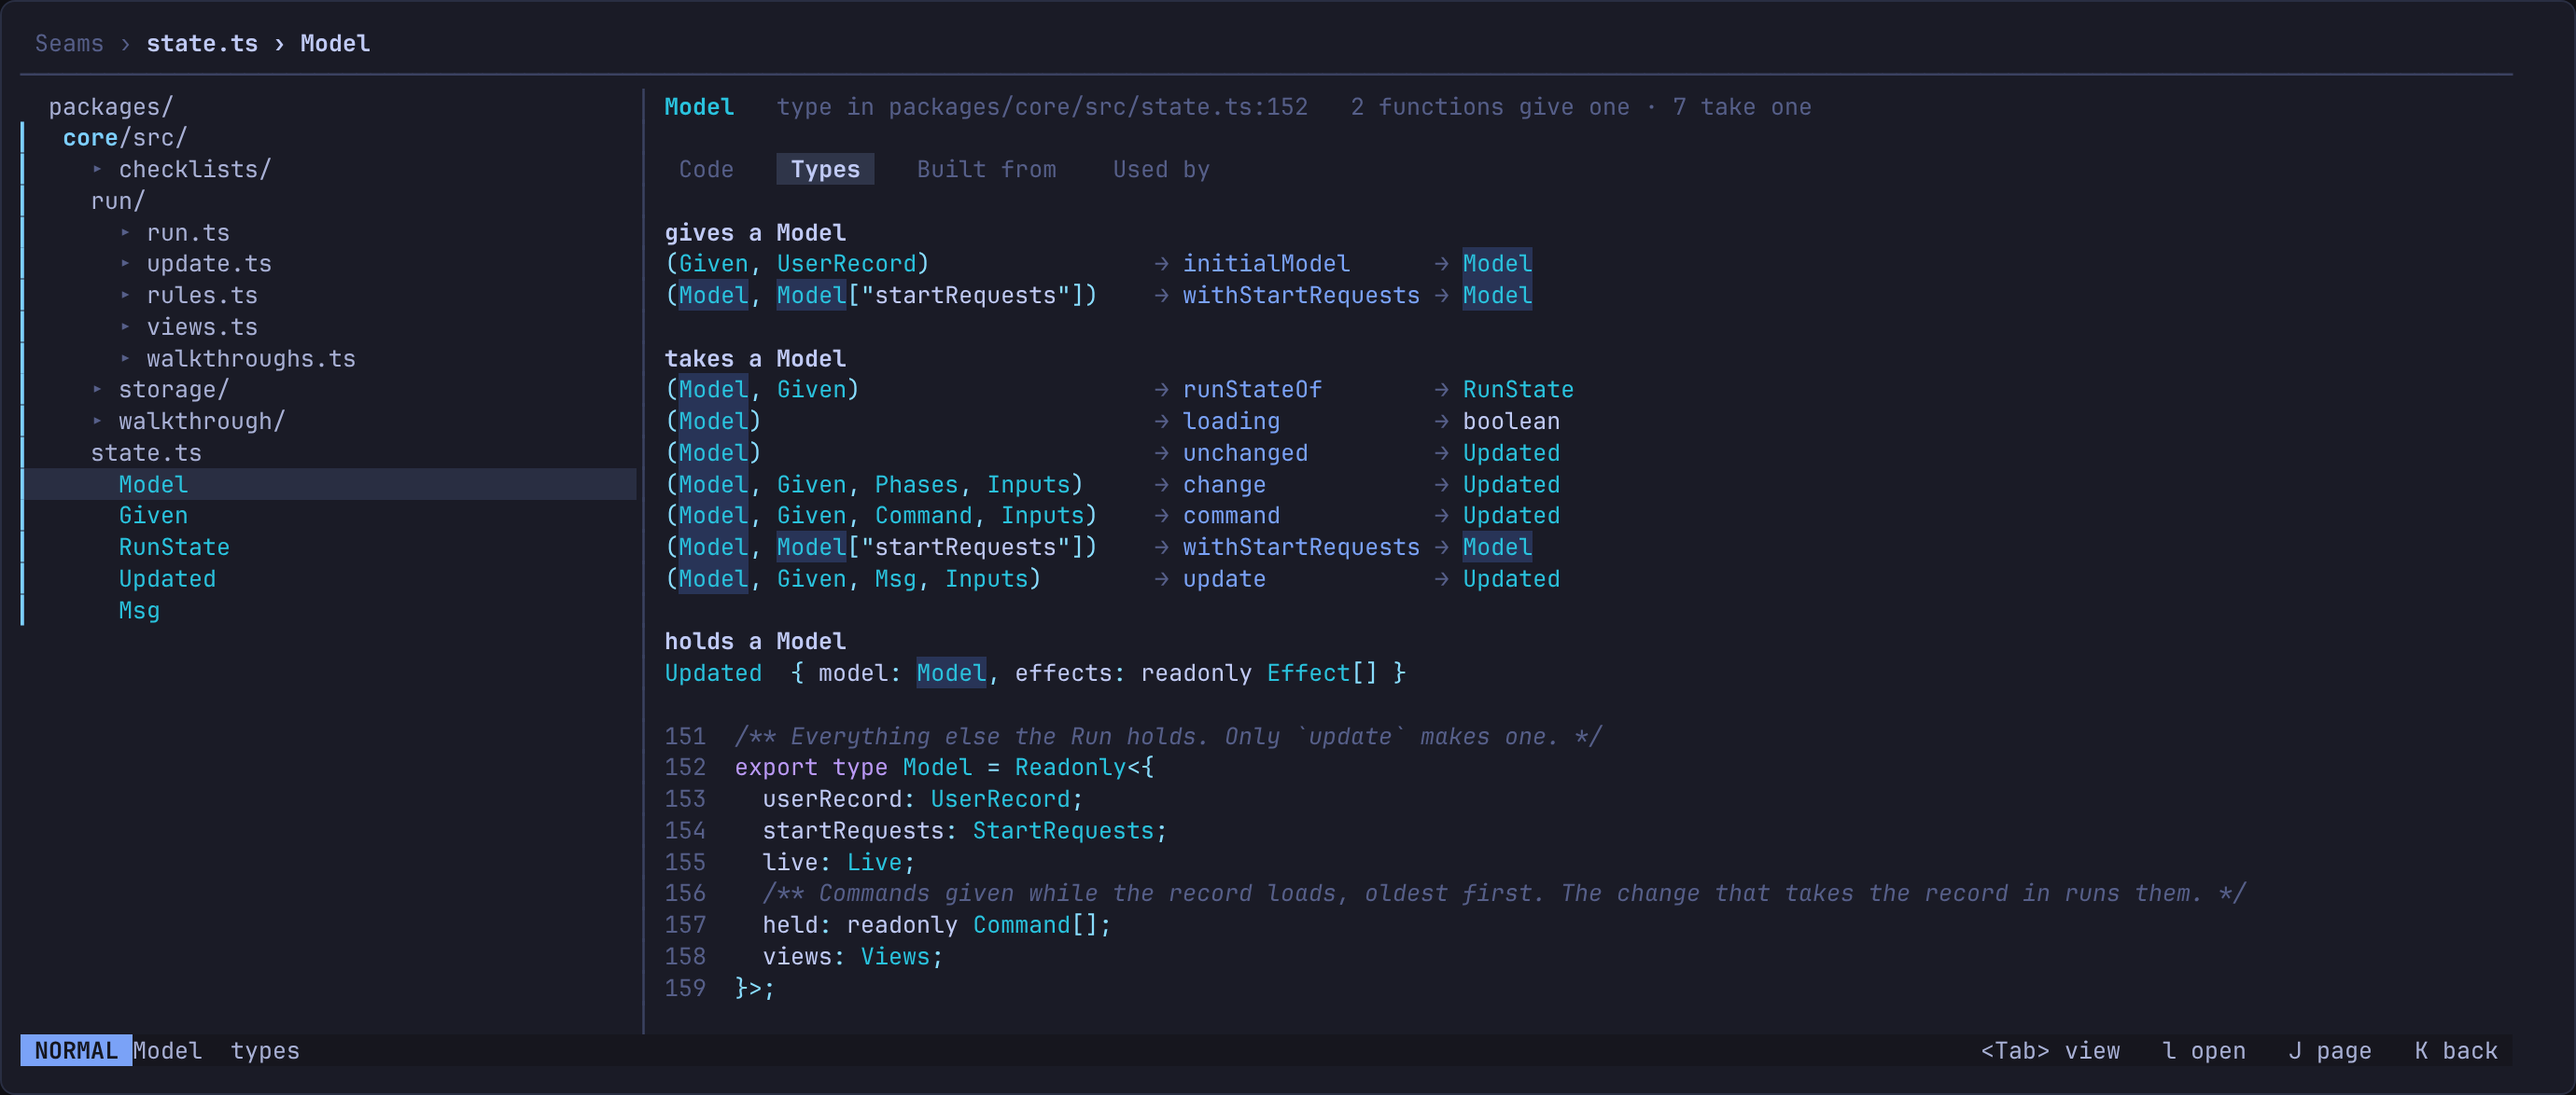
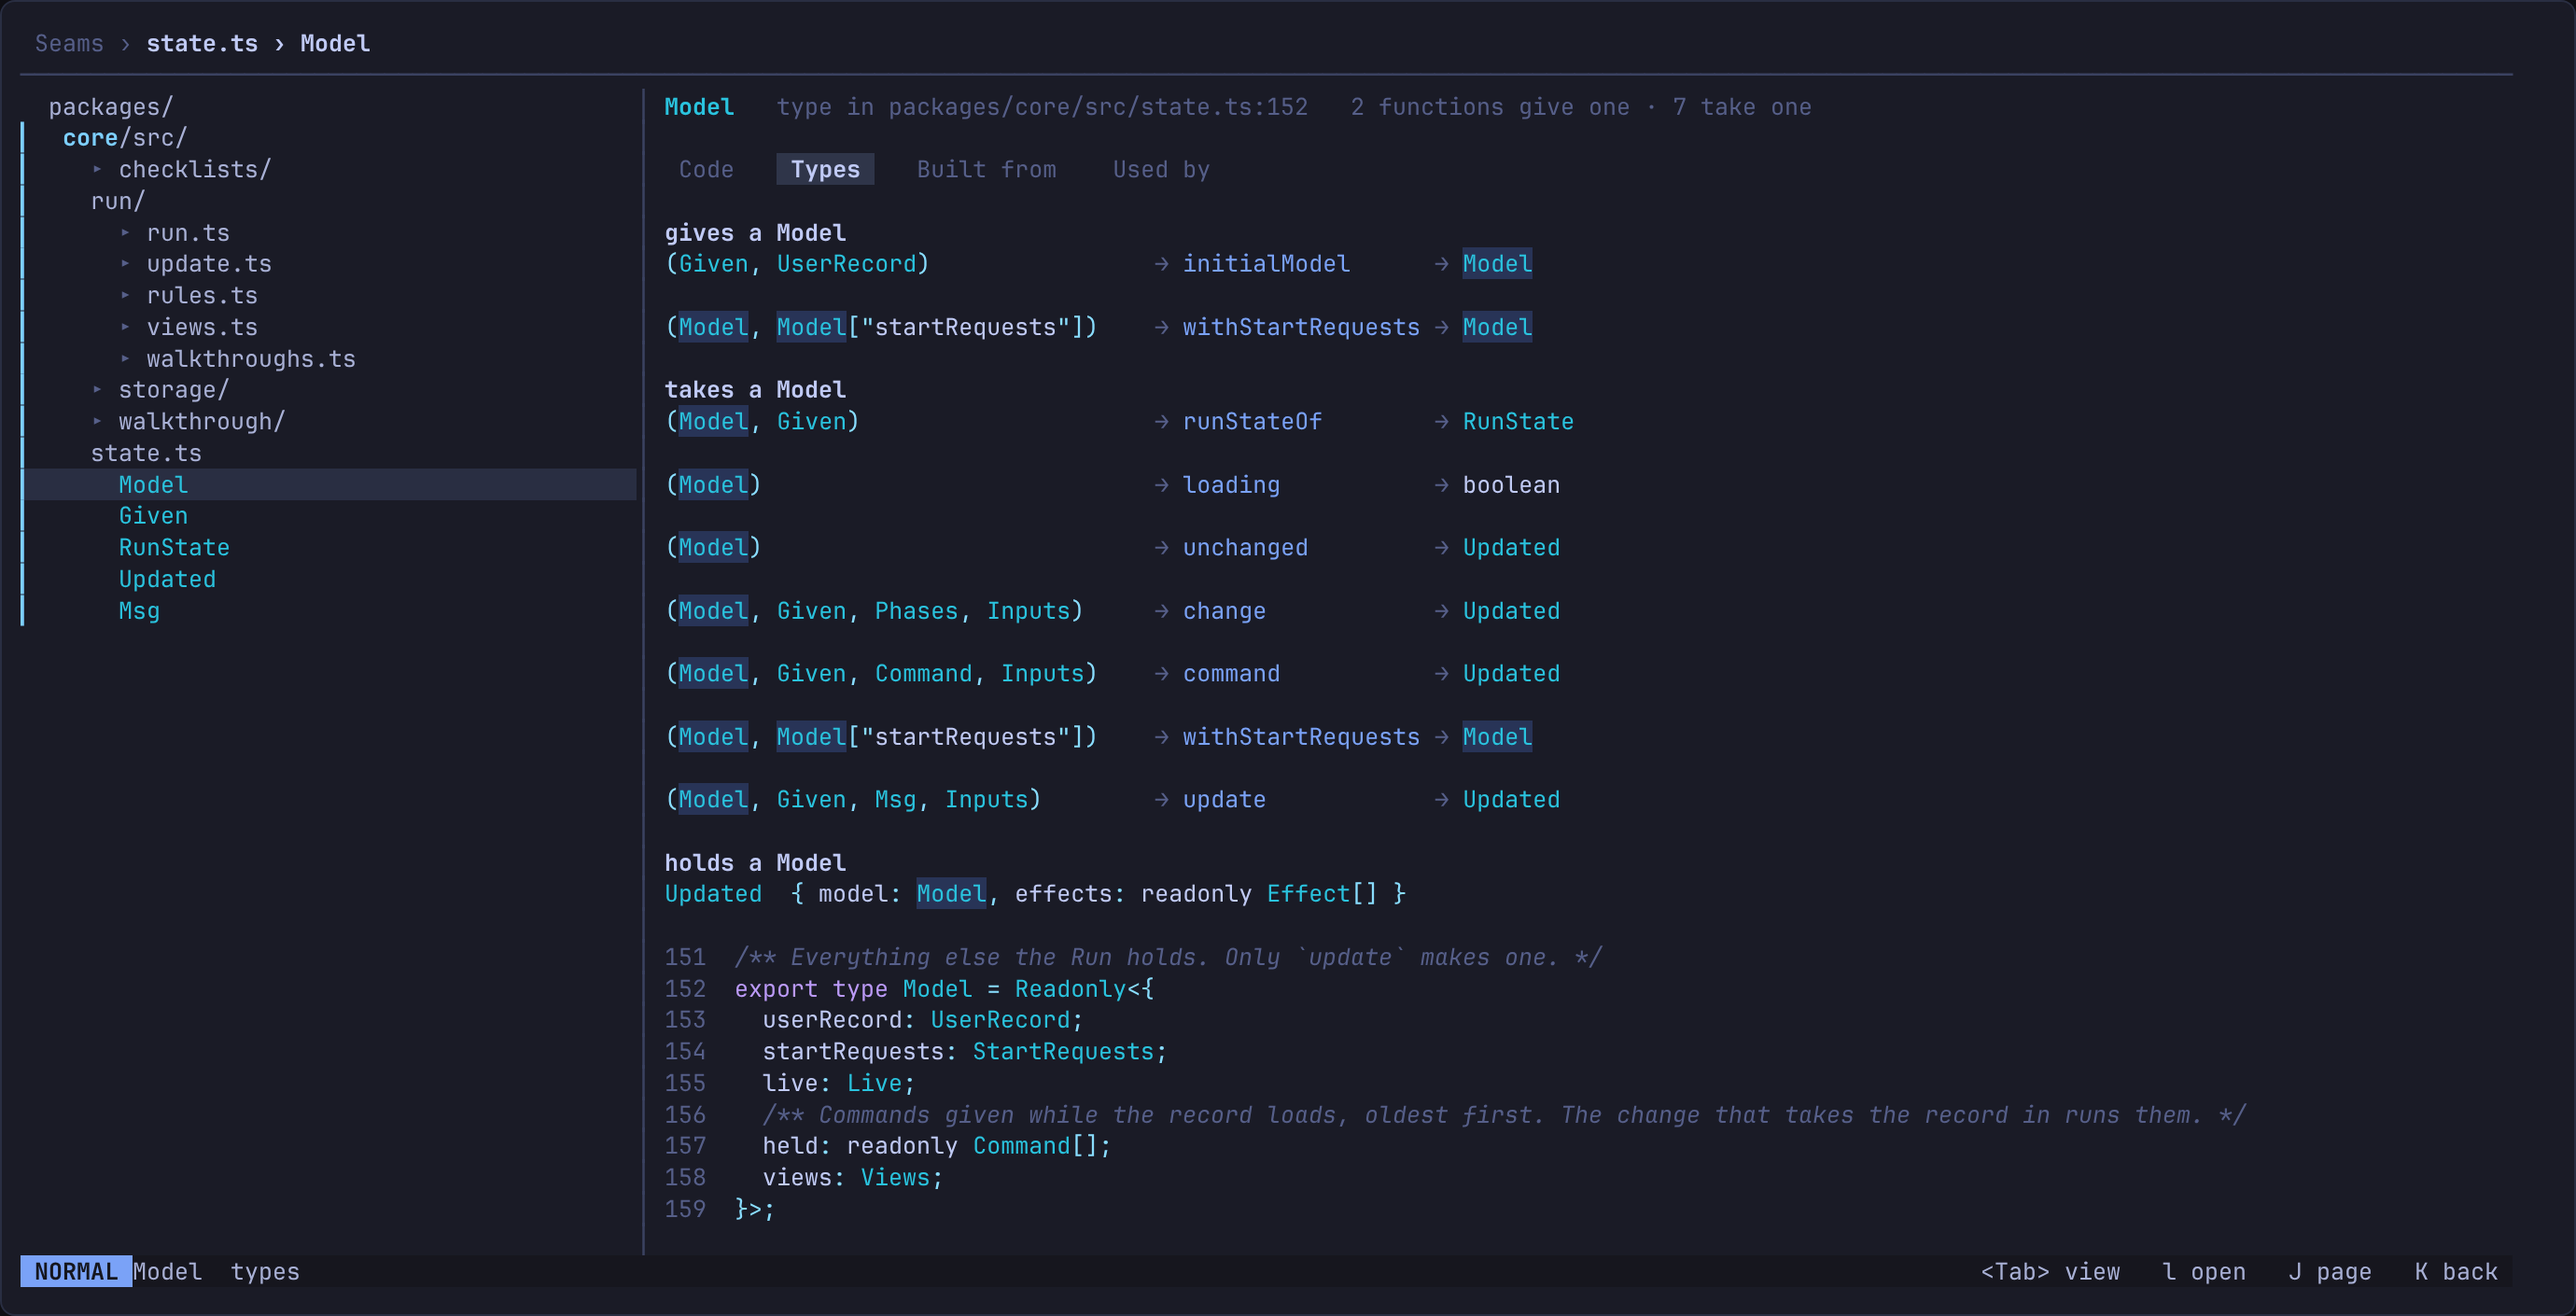
design: the Types view decided: a line a function with a blank line between, long signatures cut at the column, type parameters shown as what they extend, one key opening the line as written, Readonly left out, a function's takes and gives written out under it by default, and a folder with the views

diff --git a/design/mocks/src/typesview/mock.py b/design/mocks/src/typesview/mock.py
@@ -48,16 +48,29 @@ def parts(t):
     return out
 
 def ret_of(fn):
-    if fn.get("ret"): return simple(fn["ret"])
+    if fn.get("ret"): return as_bound(fn, simple(fn["ret"]))
     h = fn.get("hover") or ""
     if "=>" in h: return simple(h.rsplit("=>", 1)[1])
     return "void"
 
+def constraints(fn):
+    tp = (fn.get("tparams") or "").strip("<>")
+    out = {}
+    for part in re.split(r",\s*(?![^<]*>)", tp):
+        m = re.match(r"(?:const\s+)?(\w+)(?:\s+extends\s+([^=]+))?", part.strip())
+        if m: out[m.group(1)] = (m.group(2) or "unknown").strip()
+    return out
+
+def as_bound(fn, t):
+    for name, bound in constraints(fn).items():
+        t = re.sub(r"\b%s\b" % name, bound, t)
+    return t
+
 def takes(fn, generics="written"):
     ps = fn["params"]
     if len(ps) == 1 and ps[0].get("type") and simple(ps[0]["type"]).startswith("{"):
-        return simple(ps[0]["type"])
-    return "(" + ", ".join(simple(p["type"]) if p.get("type") else p["name"] for p in ps) + ")"
+        return as_bound(fn, simple(ps[0]["type"]))
+    return "(" + ", ".join(as_bound(fn, simple(p["type"])) if p.get("type") else p["name"] for p in ps) + ")"
 
 def fn(path, name):
     return next(x for x in F[path]["fns"] if x["name"] == name)
@@ -94,13 +107,14 @@ def wrap(text, w, level=1):
 def cut(text, w):
     return text if len(text) <= w else text[: w - 1] + "…"
 
-def sig_rows(items, pw, mode="wrap", on=None, kept=()):
+def sig_rows(items, pw, mode="wrap", on=None, kept=(), gap=False):
     """items: (takes, name, gives). mode: wrap | cut | parts"""
     nw = max(len(n) for _, n, _ in items)
     if mode == "wrap":  # a first line that can't break inside a type moves the column out
         pw = max([pw] + [len(wrap(tk, pw)[0]) for tk, _, _ in items])
     rows = []
-    for tk, name, gv in items:
+    for k, (tk, name, gv) in enumerate(items):
+        if gap and k: rows.append(([], ""))
         nm = s("fd" if name in kept else "b", name.ljust(nw))
         if mode == "parts" and tk.startswith("{") and len(tk) > pw:
             ps = parts(tk)
@@ -195,7 +209,7 @@ where = {"adapterOf": "storage/adapter.ts", "createLink": "storage/link.ts"}
 items = [(takes(fn(where.get(n, "storage/records.ts"), n)), n, ret_of(fn(where.get(n, "storage/records.ts"), n))) for n in outside]
 R = [(s("", " ") + s("fg bold", "storage/") + s("c", f"   folder in {SRC}storage/   3 files · 8 functions and 9 types used outside it"), ""), blank()[0],
      tabs(["Types", "Built from", "Used by"]), blank()[0],
-     title("functions used outside storage/")] + sig_rows(items, PW) + [blank()[0], title("types used outside storage/")]
+     title("functions used outside storage/")] + sig_rows(items, 52, "cut", gap=True) + [blank()[0], title("types used outside storage/")]
 tys = [("StoredRecord", 5), ("RecordChanges", 3), ("RecordUnreadableError", 3), ("Parsed", 2), ("Read", 2), ("StorageAdapter", 1), ("SaveAdapter", 1), ("SavePartialAdapter", 1), ("DroppedEntry", 1)]
 for n, c in tys:
     R.append((s("", " ") + s("ty", n.ljust(24)) + s("c", f"{c} file" + ("s" if c > 1 else "")), ""))
@@ -206,8 +220,8 @@ up = F["run/update.ts"]["fns"]
 ex = [(takes(x), x["name"], ret_of(x)) for x in up if x["exported"]]
 kp = [(takes(x), x["name"], ret_of(x)) for x in up if not x["exported"]]
 R = [(s("", " ") + s("fg bold", "update.ts") + s("c", f"   file in {SRC}run/   3 exported · 10 kept to itself"), ""), blank()[0],
-     tabs(["Code", "Types", "Built from", "Used by"]), blank()[0], title("exported")] + sig_rows(ex, 40) + \
-    [blank()[0], title("kept in update.ts")] + sig_rows(kp, 40, kept={n for _, n, _ in kp})
+     tabs(["Code", "Types", "Built from", "Used by"]), blank()[0], title("exported")] + sig_rows(ex, 40, "cut", gap=True) + \
+    [blank()[0], title("kept in update.ts")] + sig_rows(kp, 40, "cut", kept={n for _, n, _ in kp}, gap=True)
 shot("types-view-file", "run/update.ts", "update.ts", {"run/", "update.ts", "run.ts"}, R, "update.ts  types")
 
 # 3. a function: createRun
@@ -225,8 +239,8 @@ for f in D["files"]:
         if re.search(r"\bModel\b", g): givers.append((ps, x["name"], g))
         if re.search(r"\bModel\b", ps): takers.append((ps, x["name"], g))
 R = [(s("", " ") + s("ty bold", "Model") + s("c", f"   type in {SRC}state.ts:152   2 functions give one · 7 take one"), ""), blank()[0],
-     tabs(["Code", "Types", "Built from", "Used by"]), blank()[0], title("gives a Model")] + sig_rows(givers, 34, on="Model") + \
-    [blank()[0], title("takes a Model")] + sig_rows(takers, 34, on="Model") + [blank()[0], title("holds a Model")] + \
+     tabs(["Code", "Types", "Built from", "Used by"]), blank()[0], title("gives a Model")] + sig_rows(givers, 34, "cut", on="Model", gap=True) + \
+    [blank()[0], title("takes a Model")] + sig_rows(takers, 34, "cut", on="Model", gap=True) + [blank()[0], title("holds a Model")] + \
     [(s("", " ") + ts("Updated  { model: Model, effects: readonly Effect[] }", on="Model"), ""), blank()[0]] + decl("state.ts", "Model", "")[1:]
 shot("types-view-type", "state.ts › Model", "Model", {"run/"}, R, "Model  types")
 

diff --git a/design/next.md b/design/next.md
@@ -69,6 +69,23 @@ the cursor moves.
 
 ### Types: the higher view
 
+Decided 2026-10-31, from the mocks `mocks/types-view-*.png`:
+
+- **A line a function, a blank line between functions.**
+- **A long signature is cut with `…`** at the column, so the arrows and the
+  names stay in one column.
+- **A type parameter shows as what it extends,** `(ProblemHandlers<Step>)
+  → problemReporter → ReportProblem<Step>`.
+- **One key opens the line under the cursor as written:** the parts it cut,
+  its type parameters, everything. The same key closes it. Which key is
+  still open.
+- **`Readonly<…>` is left out,** since raf wraps every type in it.
+- **A function's takes and gives are written out under its line,** each
+  type's declaration with its doc comment, open by default.
+- **A folder has the views a file has where they make sense:** Types, Built
+  from, Used by and Changed. It has no Code.
+
+
 The Types view is the high-level picture at every level of the tree, with
 no screen of its own. It has one shape everywhere: a line per function,
 what it takes, the function, what it gives, the functions lined up in one
